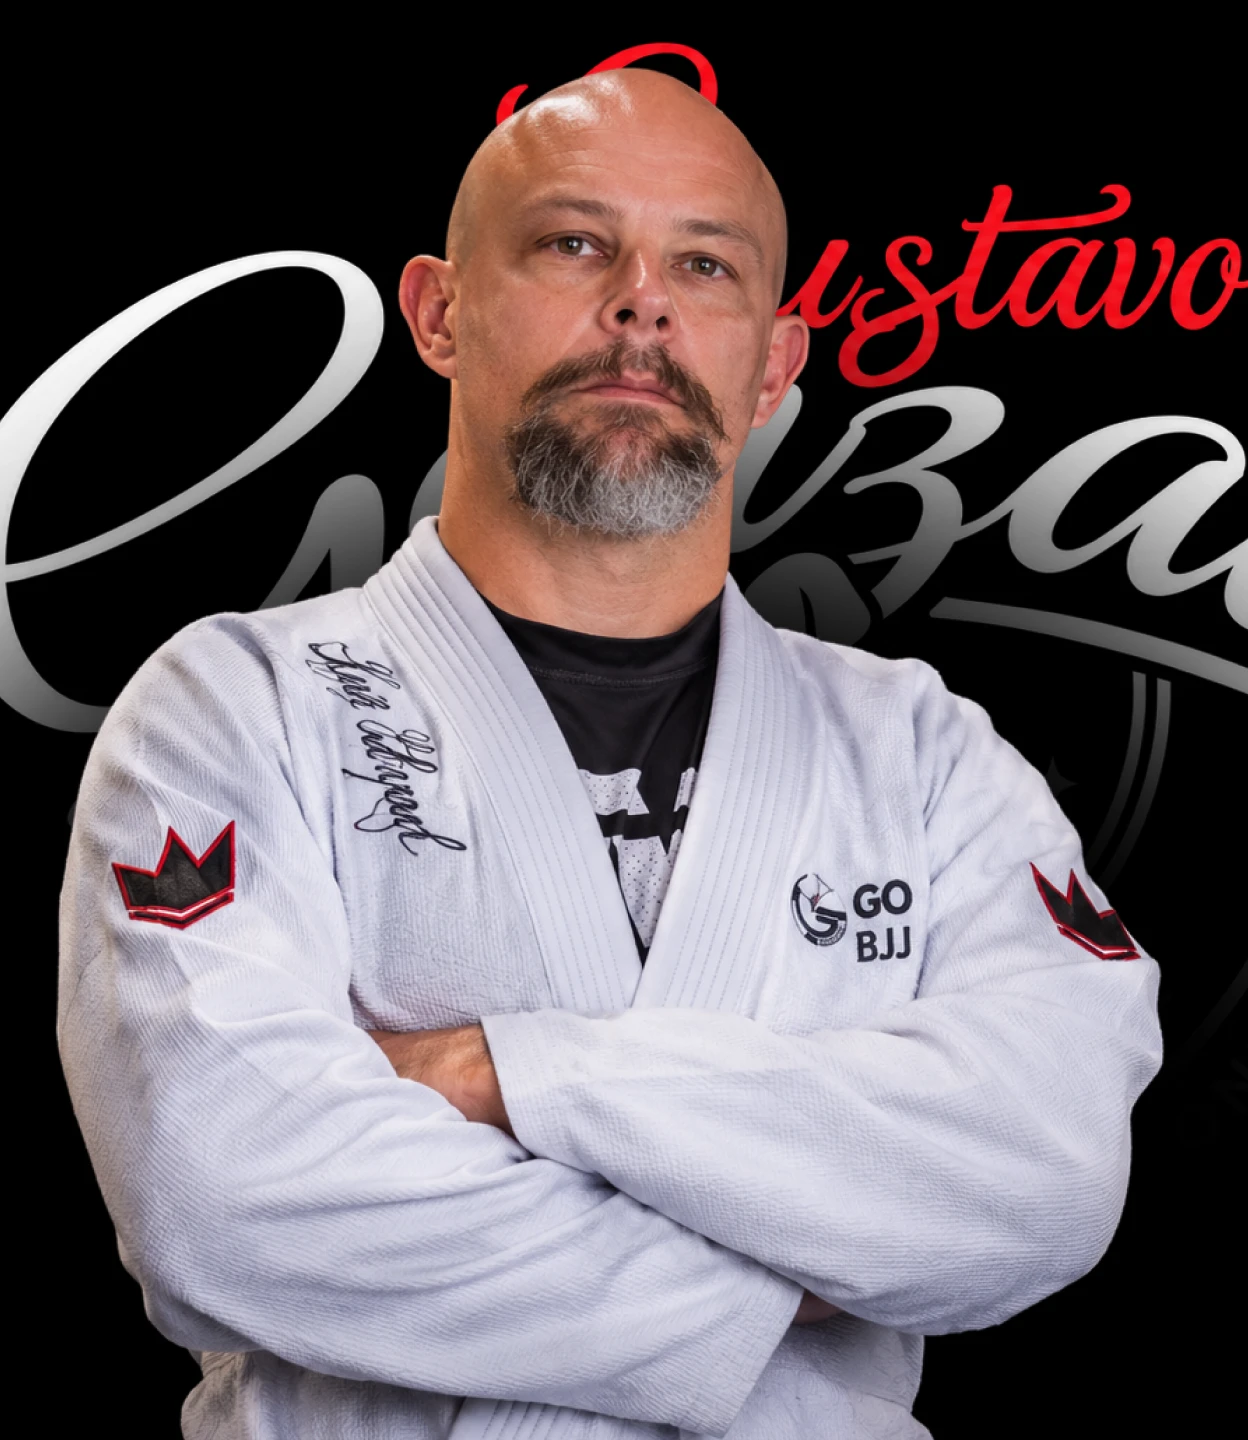
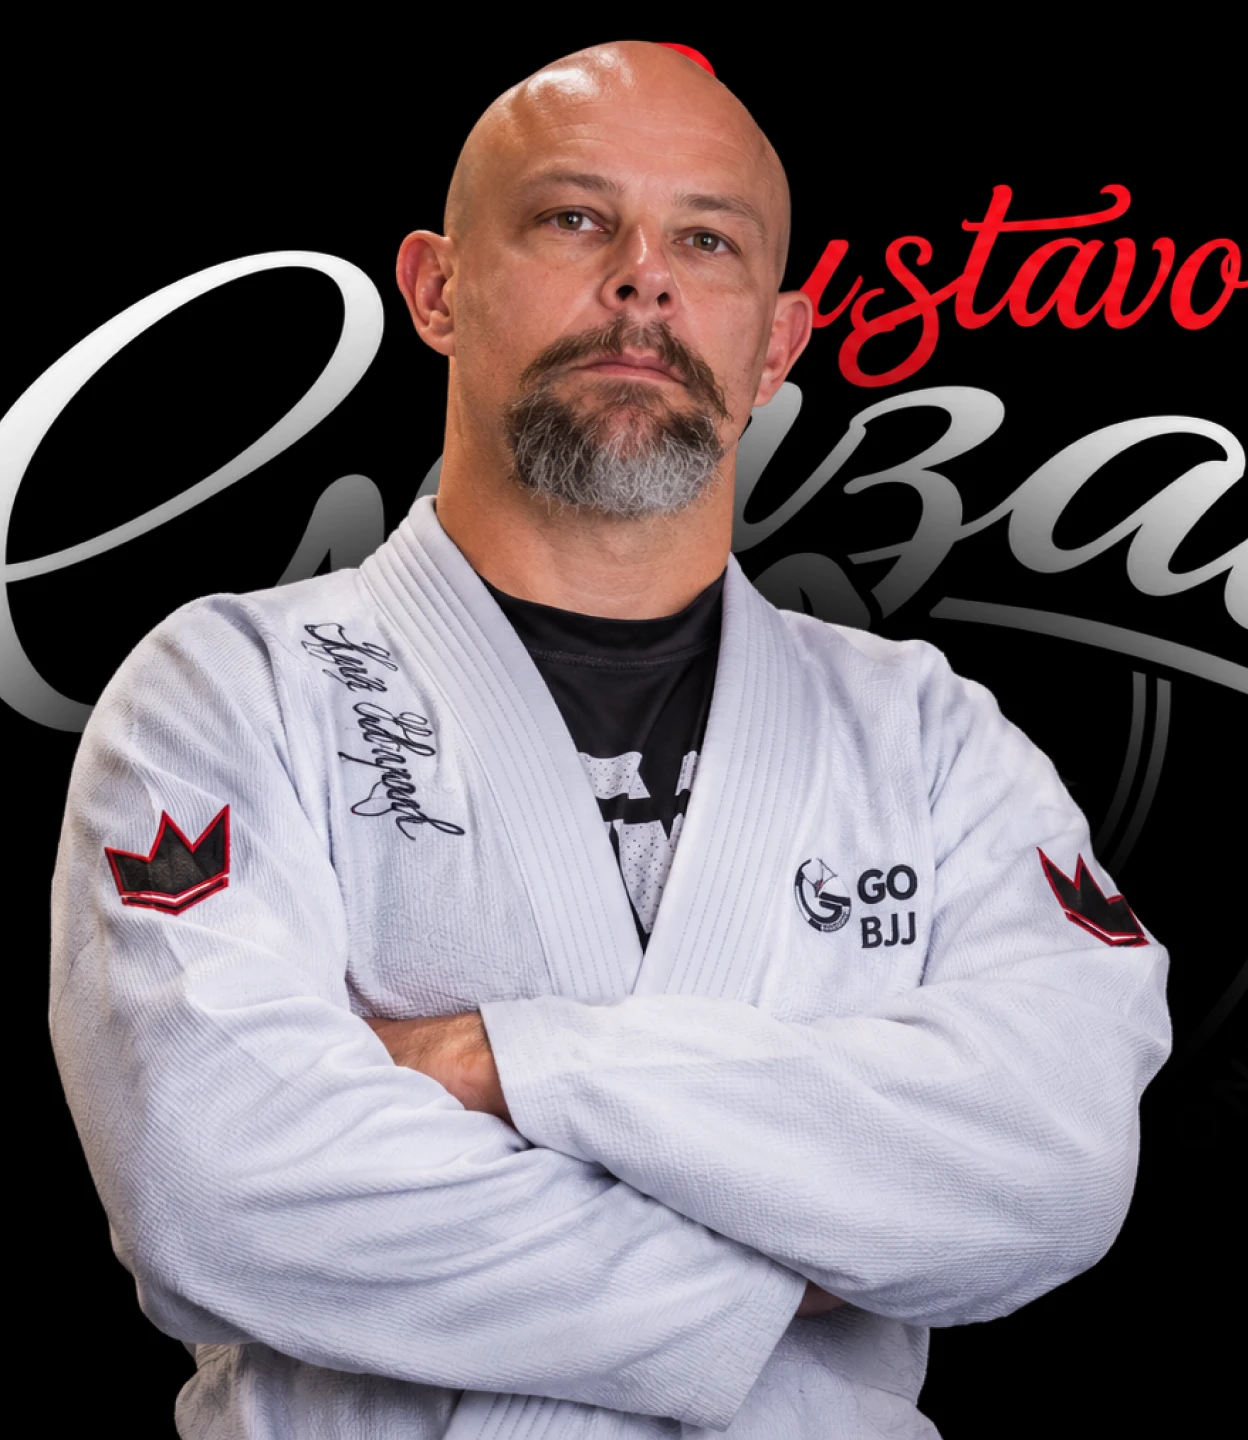
feat: GHL ligado (location e webhook 1 do Gonzales BJJ - Rio Rancho NM, source Landing Page - Main) e nova foto do Brandon

diff --git a/src/nd/client.ts b/src/nd/client.ts
@@ -1,8 +1,7 @@
 // The only per-academy file of the Novo Dash kit. Filled from the Novo Dash app
 // (clients / conversoes_tracking) and kept in sync by the standards robot.
-// The GHL and tracking ids are still pending (memory/briefing.md): until they are
-// filled, the forms show their sent state and nothing leaves the page, and every
-// tracking helper is a silent no-op.
+// GHL ids filled on 03/11 (Gonzales BJJ - Rio Rancho NM). The tracking ids are still
+// pending: no row in conversoes_tracking, so every tracking helper is a silent no-op.
 export default {
   "academy": {
     "name": "Gonzales Jiu-Jitsu",
@@ -13,10 +12,10 @@ export default {
     "photo": "/img/hero.webp"
   },
   "ghl": {
-    "locationId": "",
-    "leadWebhookUuid": ""
+    "locationId": "i3KtvdSaQ1QE31Hj8z7L",
+    "leadWebhookUuid": "HHlFrtd9GbA6LtnGvCqL"
   },
-  "source": "Website - Gonzales",
+  "source": "Landing Page - Main",
   "tracking": {
     "pixel": "",
     "ga4": "",

diff --git a/memory/briefing.md b/memory/briefing.md
@@ -13,7 +13,7 @@
 ## Pendências [CONFIRMAR] (PRD 20) — nunca no código publicado
 | Item | Status | Responsável |
 |---|---|---|
-| IDs GHL (`locationId`, `leadWebhookUuid`), Pixel, GA4, Ads (+labels), Clarity — `src/nd/client.ts` vazio: modal e ticket mostram o sucesso, mas nada é enviado (o kit não posta sem URL) | 🔴 | Arthur / app Novo Dash |
+| Pixel, GA4, Ads (+labels), Clarity: `src/nd/client.ts` vazio, o cliente não tem linha na `conversoes_tracking` do Supabase (conferido 03/11). GHL feito em 03/11: location i3KtvdSaQ1QE31Hj8z7L, webhook 1 HHlFrtd9GbA6LtnGvCqL, source Landing Page - Main | 🔴 | Arthur / app Novo Dash |
 | Domínio final e projeto Vercel (substitui gonzalesjj.com?) — `VITE_SITE_URL`; até lá o build é prévia noindex | 🔴 | Arthur |
 | Idade dos Toddlers: 4–5 (site/briefing) x 3–5 (resposta no Google) — manter 4–5 | 🟡 | cliente |
 | Horário da recepção do footer (Mon–Fri 4:30–8:30 PM / Sat 9–11 AM) x aulas às 11 AM ter/qui — e o `openingHours` do schema | 🟡 | cliente |
